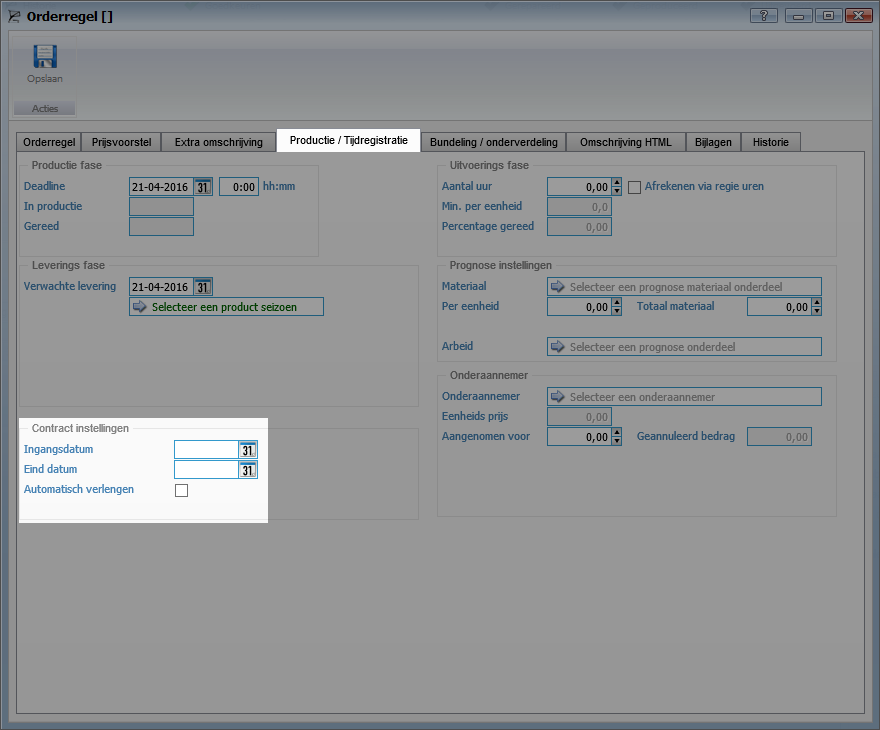
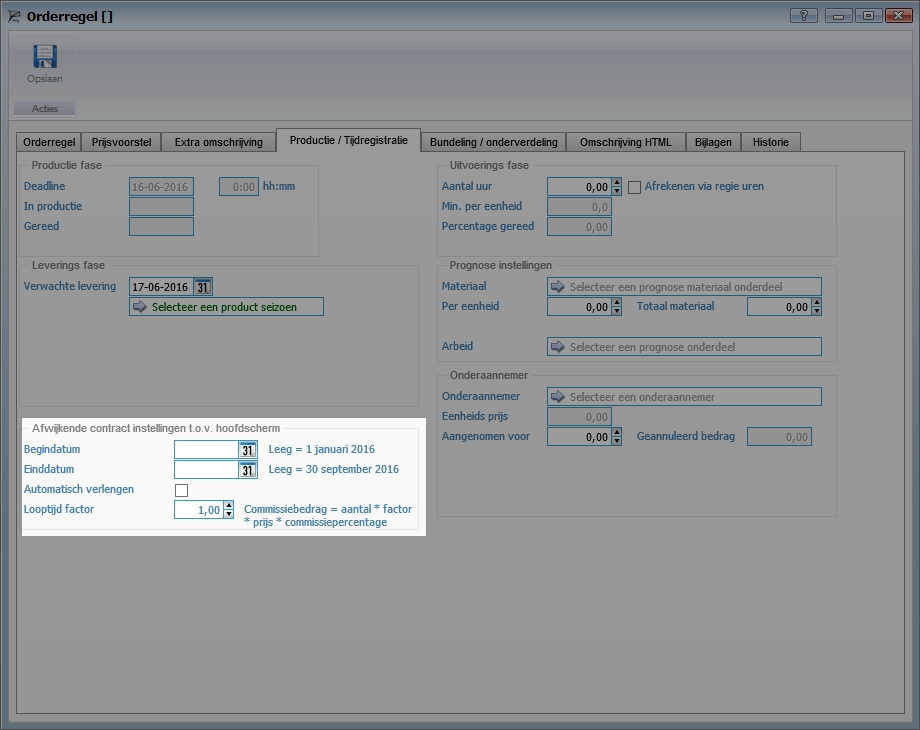
Diverse aanpassingen

diff --git a/support-site/modulesAM/commissiebeheer/commissie-aanpassen-en-herberekenen/commissie-aanpassen-en-herberekenen.md b/support-site/modulesAM/commissiebeheer/commissie-aanpassen-en-herberekenen/commissie-aanpassen-en-herberekenen.md
@@ -12,31 +12,31 @@
 
 # Algemene informatie commissie #
 
-Deze rubriek zal o.a. worden beschreven hoe commissies aangepast en herberekend dienen te worden. Tevens zullen wat algemene onderdelen worden beschreven.
+In deze rubriek zal o.a. worden beschreven hoe commissies aangepast en herberekend dienen te worden. Tevens zullen algemene zaken worden besproken voor optimaal gebruik van commissiebeheer.
 
-# Commissies herberekenen met aangepaste percentages #
+# Commissiepercentages aanpassen en herberekenen #
 
 Het is mogelijk om (reeds uitgekeerde) commissies te herberekenen op basis van aangepaste percentages.
 
 ## Percentages aanpassen ##
 
-Percentages en voorwaarden op kunnen op een aantal verschillende manieren worden aangepast:
+Percentages en voorwaarden kunnen op een aantal verschillende manieren worden aangepast:
 
 - Partner koppelen aan commissie set
-- Commissieset percentage aanpassen
+- Commissie set percentage aanpassen
 - Percentage op commissieregel aanpassen
 
 ### Partner koppelen aan commissie set ###
 ![Partner koppelen aan commissie set](images/commissieset_wijzigen_bij_partner.jpg)
 
-### Commissieset percentage aanpassen ###
+### Commissie set percentage aanpassen ###
 ![Commissieset percentage aanpassen](images/commissiepercentage_aanpassen_in_commissie_set.jpg)
 
 ### Percentage op commissieregel aanpassen ###
 ![Percentage op commissieregel aanpassen](images/commissiepercentage_aanpassen_in_commissieregel.jpg)
 
 
-## Percentages herberekenen ##
+## Herberekenen met aangepast percentages ##
 
 Nadat het percentage is aangepast dienen de commissies herberekend te worden. Hiervoor zijn een aantal verschillende manieren:
 
@@ -56,52 +56,66 @@ Nadat het percentage is aangepast dienen de commissies herberekend te worden. Hi
 
 ### Herberekenen op bulkniveau factuur en order ###
 
-Ga naar "nieuwe commissieafdracht". Klik op één van de actieknoppen.
+Ga naar "nieuwe commissieafdracht". Klik op één van de koppelingen.
 
 ![Facturen partner inzien](images/nieuwe_commissieafdracht_actieknoppen_details.jpg)
 
-Selecteer één of meerdere facturen en klik op herberekenen.
+Selecteer één of meerdere regels en klik op herberekenen.
 
 ![Commissie herberekenen bulkactie](images/commisie_herberkenen_bulk.jpg)
 
 
 ### Herberekenen vanuit commissieafspraak bij partner ###
 
-Ga naar de commissieafspraken op de relatiekaart van de partner. Selecteer een commissieafspraak en kies voor Inzien.
+Ga naar de commissieafspraken op de relatiekaart van de partner. Selecteer een commissieafspraak en kies voor **Inzien**.
 
 ![Facturen en Orders inzien via commissieafspraak partner](images/facturen_orders_inzien_via_commissieset.jpg)
 
-Selecteer één of meerdere facturen en klik op herberekenen.
+Selecteer één of meerdere regels en klik op herberekenen.
 
 ![Commissie herberekenen bulkactie](images/commisie_herberkenen_bulk.jpg)
 
 
 ## Facturen uitsluiten voor commissie ##
 
+Het is mogelijk om facturen en orders uit te sluiten voor commissies. Hiervoor zijn een aantal manieren.
+- Individueel uitsluiten
+- Uitsluiten op bulkniveau
+
+### Individueel uitsluiten ###
+**Factuur**
+![Commissie uitsluiten op factuurniveau](images/commisie_uitsluiten_factuurniveau.jpg)
 
 
-## Commissie raadplegen op factuurniveau ##
+**Order**
+![Commissie uitsluiten op orderniveau](images/commisie_uitsluiten_orderrniveau.jpg)
 
 
+### Uitsluiten op bulkniveau ###
 
-![Uitleg content commissieoverzicht](images/nieuwe_commissieafdracht_contentbeschrijving.jpg)
+Ga naar "Nieuwe commissieafdracht". Klik op één van de actieknoppen.
 
+![Facturen partner inzien](images/nieuwe_commissieafdracht_actieknoppen_details.jpg)
+
+Selecteer één of meerdere regels en klik op herberekenen.
+
+![Commissie uitsluiten op bulkactie](images/commisie_uitsluiten_bulkniveau.jpg)
+
+
+## Details commissieregel inzien ##
+
+Selecteer een commissieregel en klik op **Inzien** om de details van de regel in te zien. Vanuit dit venster kan men naar de verschillende onderdelen.
+
+
+![Details van commissie inzien](images/commissieregeldetails_inzien.jpg)
+
+
+# Belangrijke weetjes #
 
 <div class="info">
-Test info
+Commissie wordt pas aangeboden voor afroming indien de verkoopfactuur is goedgekeurd en verzonden.
 </div>
 
-
-<div class="warning">
-test warning
+<div class="info">
+Commissie is pas definitief indien de inkoopfactuur (lees: commissieoverzicht) minimaal is gefiatteerd door manager.
 </div>
-
-# Commissieproces #
-
-Commissie wordt pas aangeboden voor afroming indien de verkoopfactuur is goedgekeurd en verzonden
-Commissie is pas definitief indien de inkoopfactuur (lees: commissieoverzicht) minimaal is gefiatteerd door manager
-
-
-
- 
-

diff --git a/support-site/modulesAM/contractenbeheer/handige-weetjes/handige-weetjes.md b/support-site/modulesAM/contractenbeheer/handige-weetjes/handige-weetjes.md
@@ -27,15 +27,37 @@ Nee: Op basis van order zal een nieuw contract worden aangemaakt.
 </div>
 
 
-### Looptijden contractregel vastleggen op orderregel ###
-Op de orderregel is het mogelijk om de looptijd (begin- en eindtijd) vast te leggen. Ga naar het tabblad **Productie/tijdregistratie**
+### Looptijden contractregel vastleggen in order ###
 
-![Looptijden op de orderregel vastleggen](images/looptijden_bij_orderregels_vastleggen.png)
+Het is mogelijk om de looptijd (begin- en einddatum) vast te leggen.
+
+
+<div class="info">
+Door een bestaand contract te koppelen in de order is het mogelijk om de begin-, einddatum en voorwaarden over te nemen.
+</div>
+
+![Looptijden en voorwaarden uit contract overnemen](images/contractinstellingen_op_order.jpg)
 
 <div class="info">
 Begindatum: Vul hier de datum in waarop de contractregel van kracht dient te gaan
 Einddatum: Vul hier de datum in waarop de contractregel dient te eindigen. Indien er geen datum wordt ingevuld zal de contractregel oneindig doorlopen.
 Automatisch verlengen: Vink deze optie indien de contractregel door dient te lopen nadat de einddatum is verstreken.
+</div>
+
+Eventueel is het mogelijk om afwijkende voorwaarden in te stellen op orderregelniveau
+
+Open de orderegel en ga naar het tabblad **Productie/tijdregistratie**
+
+![Afwijkende voorwaarden instellen op de orderregel vastleggen](images/looptijden_bij_orderregels_vastleggen.jpg)
+
+<div class="info">
+Begindatum: Indien het veld wordt leeg gelaten zal de datum op het hoofd tabblad worden overgenomen 
+Einddatum: Indien het veld wordt leeg gelaten zal de datum op het hoofd tabblad worden overgenomen
+Automatisch verlengen: Vink deze optie indien de contractregel door dient te lopen nadat de einddatum is verstreken.
+</div>
+
+<div class="info">
+Indien gewenst is het mogelijk om de de factor aan te passen. De factor is het aantal keer dat het item wordt uit gefactureerd gedurende de looptijd van het contract. Dit aantal wordt overigens niet gebruikt in het contract zelf.
 </div>
 
 

diff --git a/support-site/modulesAM/commissiebeheer/commissies-instellen/commissie-instellen.md b/support-site/modulesAM/commissiebeheer/commissies-instellen/commissie-instellen.md
@@ -133,3 +133,32 @@ Wachten op betaling: Indien deze optie is geselecteerd zal de commissie pas word
 <div class="info">
 Gearchiveerd: Indien deze optie is geselecteerd zal de commissieafspraak op inactief worden gezet, waarbij de gekoppelde data zal worden bewaard.
 </div>
+
+## Lumpsum instellingen op orders ##
+
+Door middel van lumpsum kunnen commissies worden uitgerekend op basis van: Aantal * Prijs * Looptijd * Percentage.
+
+Bij het aanmaken van een nieuwe order kunnen looptijden worden ingevuld. Door middel van de begin- en einddatum kan worden bepaald wat de looptijd is voor de berekening van de commissies.
+
+Maak een nieuwe order aan
+
+Vul de begin en einddatum in
+
+![Contractafspraken vastleggen op order](images/contractinstellingen_op_order.jpg) 
+
+
+<div class="info">
+Indien een bestaand contract wordt gekoppeld zullen de looptijden uit het contract worden overgenomen.
+</div>
+
+<div class="info">
+Indien gewenst is het mogelijk om de de factor aan te passen. De factor is het aantal keer dat het item wordt uit gefactureerd gedurende de looptijd van het contract. Dit aantal wordt overigens niet gebruikt in het contract zelf.
+</div>
+
+<div class="warning">
+Let op dat bij het importeren de begindatum correct staat ingevuld. Deze begin datum zal worden gebruikt bij het aanmaken van de factuurregels.
+</div>
+
+<div class="tip">
+De order kan worden geïmporteerd in een nieuw of bestaand contract. Zie voor meer informatie deze handleiding. http://hybridsaas.support/pages/support-site/modulesAM/contractenbeheer/handige-weetjes/handige-weetjes 
+</div>

diff --git a/support-site/modulesAM/contractenbeheer/planningsinterval/planningsinterval.md b/support-site/modulesAM/contractenbeheer/planningsinterval/planningsinterval.md
@@ -1,11 +1,11 @@
 <properties>
 	<page>
-		<title>Plannings interval</title>
-		<description>Plannings interval</description>
+		<title>Planningsinterval</title>
+		<description>Planningsinterval</description>
 	</page>
 	<menu>
 		<position>Modules A - M /Contractbeheer</position>
-		<title>Plannings interval</title>
+		<title>Planningsinterval</title>
 		<sort>a</sort>
 	</menu>
 </properties>
